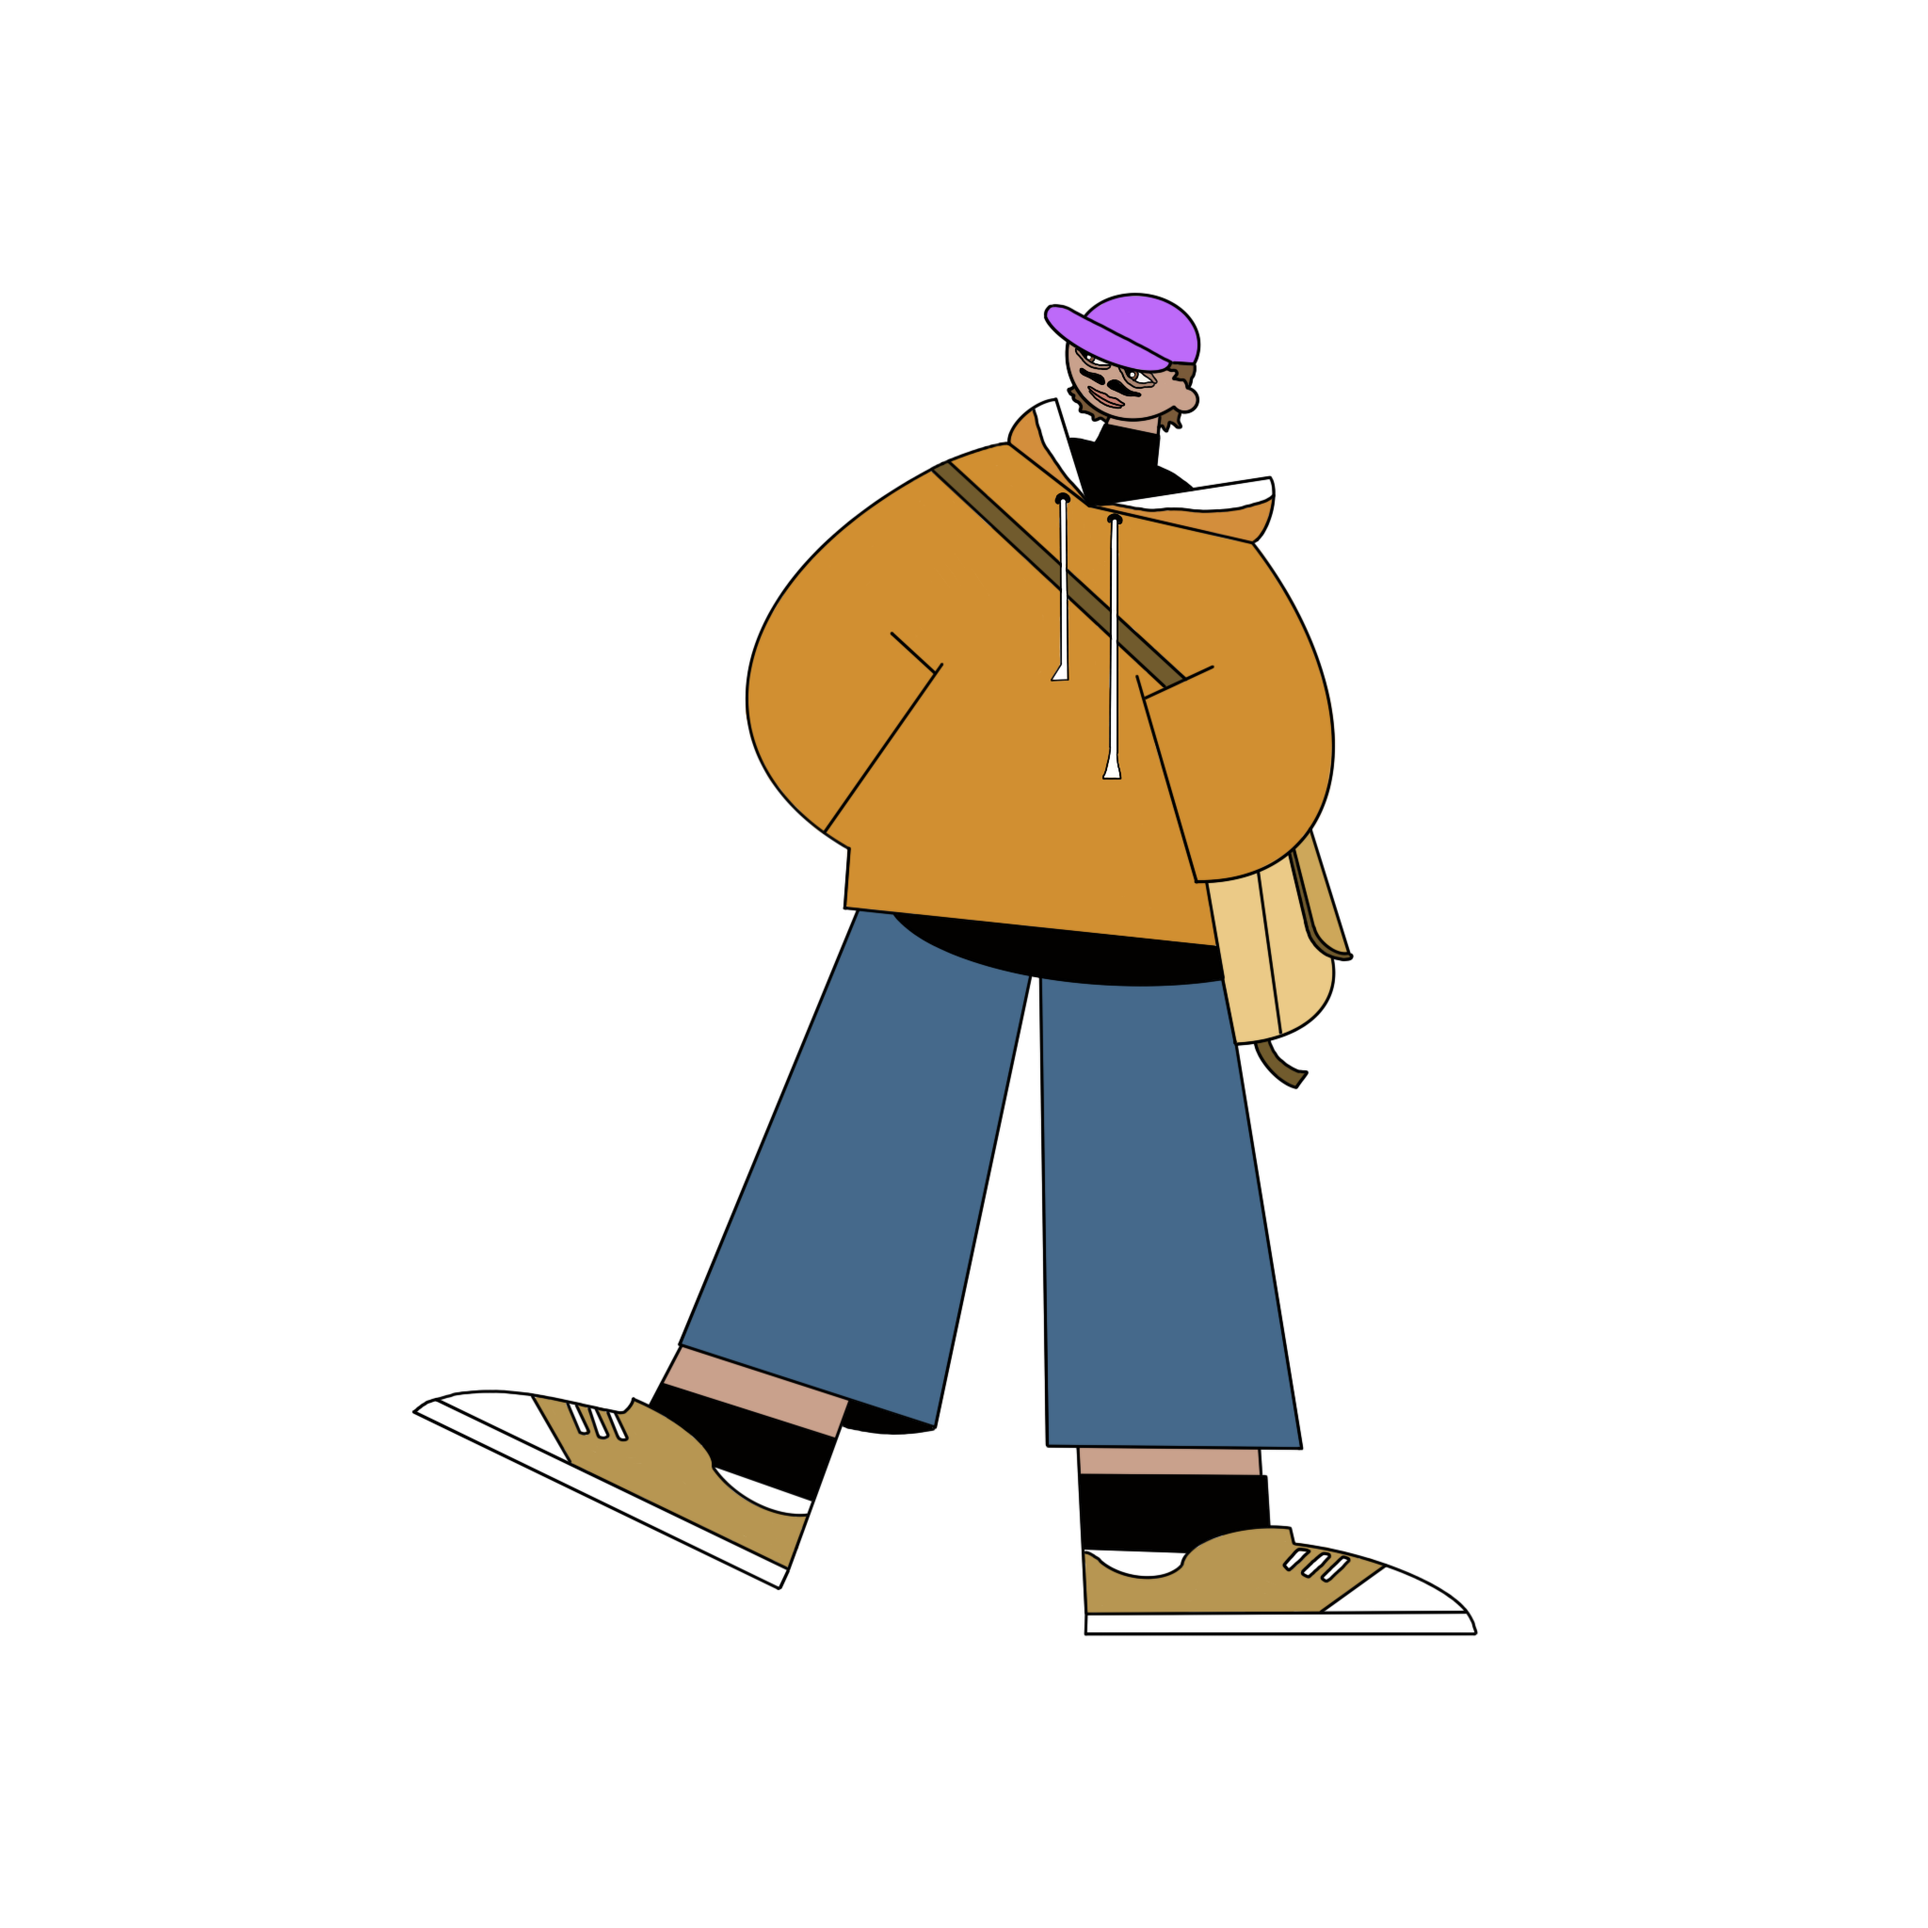
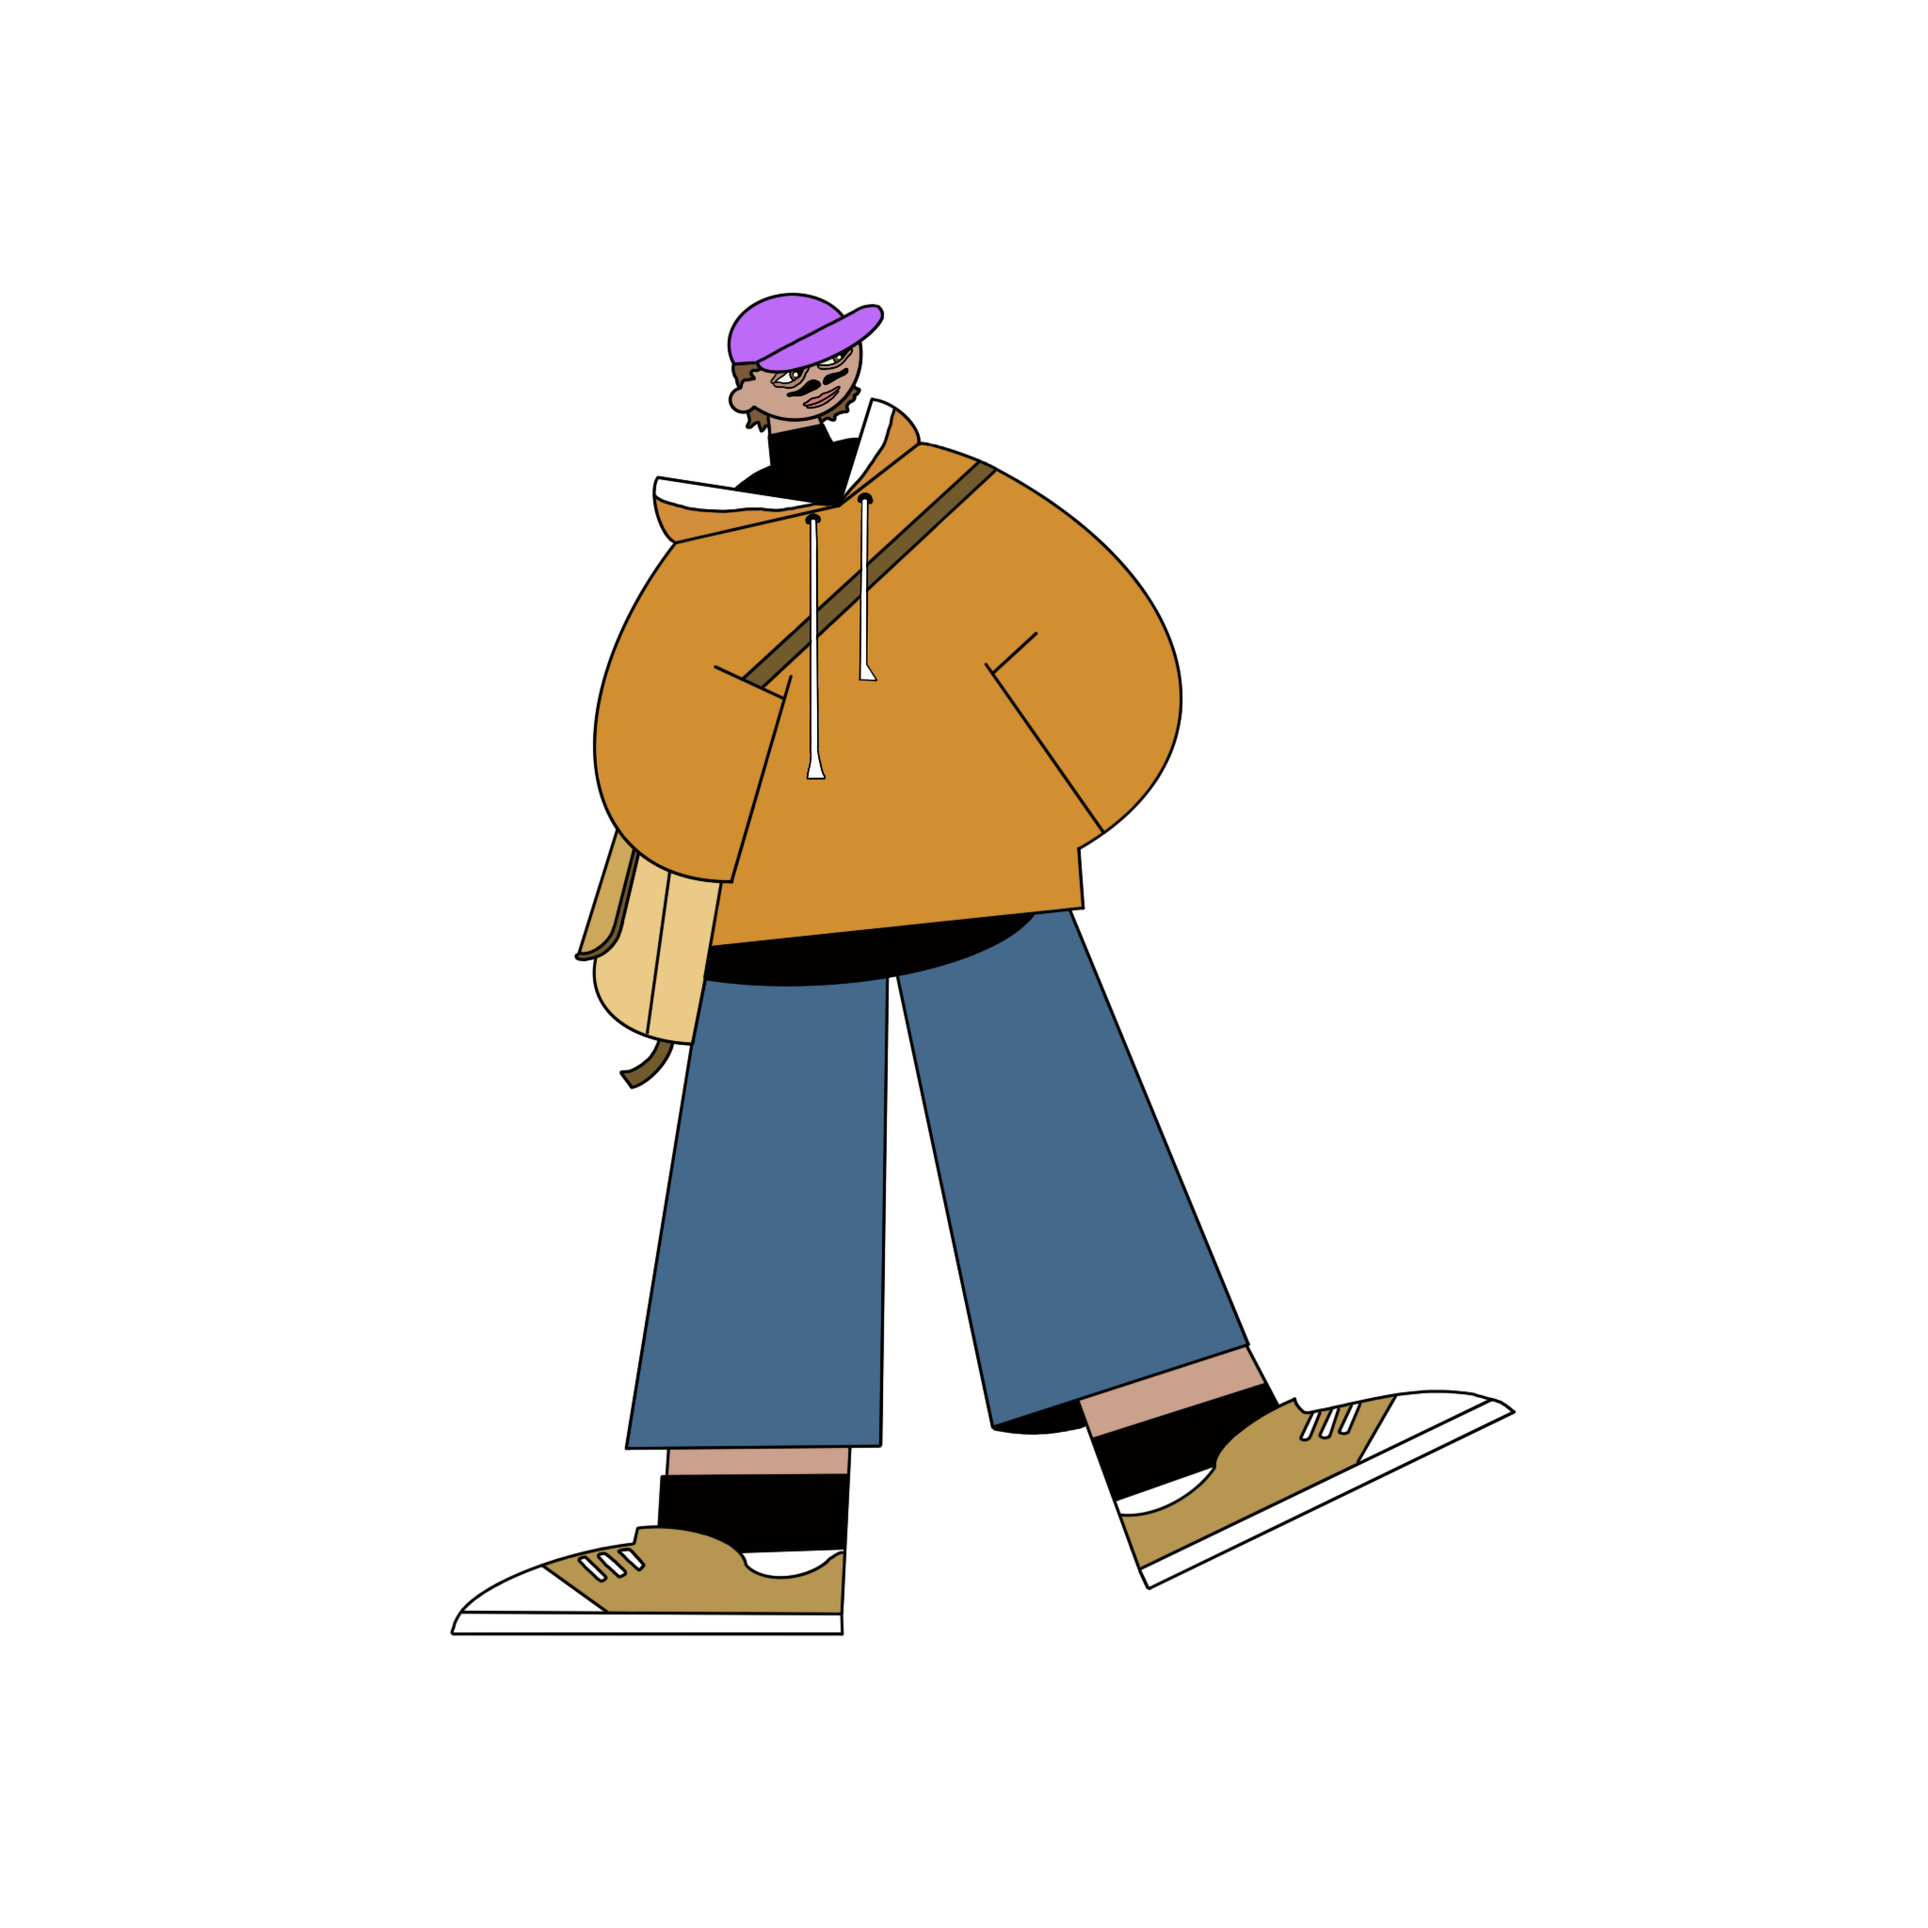
feat: added sunny version change functionality

Changed region(s): [[0.2188, 0.1562, 0.7812, 0.8438]]

diff --git a/src/components/ui/carousel.jsx b/src/components/ui/carousel.jsx
@@ -1,6 +1,6 @@
 "use client";
 import * as React from "react"
-import { ArrowLeftIcon, ArrowRightIcon } from "@radix-ui/react-icons"
+import { ChevronLeftIcon, ChevronRightIcon } from "@radix-ui/react-icons"
 import useEmblaCarousel from "embla-carousel-react";
 
 import { cn } from "@/lib/utils"
@@ -149,28 +149,33 @@ const CarouselItem = React.forwardRef(({ className, ...props }, ref) => {
 })
 CarouselItem.displayName = "CarouselItem"
 
-const CarouselPrevious = React.forwardRef(({ className, variant = "outline", size = "icon", ...props }, ref) => {
+const CarouselPrevious = React.forwardRef(({ className, variant = "ghost", size = "icon", ...props }, ref) => {
   const { orientation, scrollPrev, canScrollPrev } = useCarousel()
 
   return (
-    (<Button
+    <Button
       ref={ref}
       variant={variant}
       size={size}
-      className={cn("absolute  h-8 w-8 rounded-full", orientation === "horizontal"
-        ? "-left-12 top-1/2 -translate-y-1/2"
-        : "-top-12 left-1/2 -translate-x-1/2 rotate-90", className)}
+      className={cn(
+        "absolute  h-8 w-8 rounded-full hover:bg-gray-600",
+        orientation === "horizontal"
+          ? "left-12 top-1/2 -translate-y-1/2"
+          : "-top-12 left-1/2 -translate-x-1/2 rotate-90",
+        className
+      )}
       disabled={!canScrollPrev}
       onClick={scrollPrev}
-      {...props}>
-      <ArrowLeftIcon className="h-4 w-4" />
+      {...props}
+    >
+      <ChevronLeftIcon className="h-8 w-8" color="white" />
       <span className="sr-only">Previous slide</span>
-    </Button>)
+    </Button>
   );
 })
 CarouselPrevious.displayName = "CarouselPrevious"
 
-const CarouselNext = React.forwardRef(({ className, variant = "outline", size = "icon", ...props }, ref) => {
+const CarouselNext = React.forwardRef(({ className, variant = "ghost", size = "icon", ...props }, ref) => {
   const { orientation, scrollNext, canScrollNext } = useCarousel()
 
   return (
@@ -178,13 +183,13 @@ const CarouselNext = React.forwardRef(({ className, variant = "outline", size = 
       ref={ref}
       variant={variant}
       size={size}
-      className={cn("absolute h-8 w-8 rounded-full", orientation === "horizontal"
-        ? "-right-12 top-1/2 -translate-y-1/2"
+      className={cn("absolute h-8 w-8 rounded-full hover:bg-gray-600", orientation === "horizontal"
+        ? "right-12 top-1/2 -translate-y-1/2"
         : "-bottom-12 left-1/2 -translate-x-1/2 rotate-90", className)}
       disabled={!canScrollNext}
       onClick={scrollNext}
       {...props}>
-      <ArrowRightIcon className="h-4 w-4" />
+      <ChevronRightIcon className="h-8 w-8" color="white"/>
       <span className="sr-only">Next slide</span>
     </Button>)
   );

diff --git a/src/components/wardrobe.jsx b/src/components/wardrobe.jsx
@@ -1,9 +1,11 @@
 'use client';
 import { ChevronDown } from "lucide-react";
 import { StickyScroll } from "./sticky-scroll-reveal";
-import Sunny from '../../public/SunnyWelcome.PNG'
+import SunnySuit from '../../public/SunnySuit.png'
+import SunnyWelcome from '../../public/SunnyWelcome.PNG'
+import SunnyCargo from '../../public/SunnyCargo.png'
 import Image from "next/image";
-import {spotContents} from '../contents/SpotContents'
+import {spotContents} from '../contents/spotContents.js'
 import {
   Carousel,
   CarouselContent,
@@ -43,6 +45,18 @@ export default function Wardrobe() {
   const [stickyContent, setStickyContent] = useState(spotContents);
   const [api, setApi] = useState(null);
 
+  const sunnyPicture = (str) => {
+    switch (str) {
+      case 'Skills':
+        return SunnySuit;
+      case 'Hyve':
+        return SunnyWelcome;
+      case 'Spot':
+        return SunnyCargo;
+      default:
+        return SunnySuit;
+    }
+  }
    const scrollToTop = (ref) => {
      ref.scrollTo({
        top: 0,
@@ -74,26 +88,32 @@ export default function Wardrobe() {
         id="wardrobe"
         className="min-h-[100vh] flex justify-evenly items-center bg-gray-700"
       >
-        <Carousel className="w-[30%]" setApi={setApi} opts={{loop:true}}>
+        <Carousel className="w-[30%]" setApi={setApi} opts={{ loop: true }}>
           <CarouselContent>
             {sunnyVersion.map((version, index) => (
               <CarouselItem key={index}>
                 <div className="flex flex-col gap-3 justify-center">
                   <Image
-                    src={Sunny}
+                    src={sunnyPicture(version)}
                     width={500}
                     height={500}
                     alt="Sunny Wardrobe"
                   />
-                  <h1 className="text-white text-3xl flex justify-center">{version}</h1>
+                  <h1 className="text-white text-3xl flex justify-center">
+                    {version}
+                  </h1>
                 </div>
               </CarouselItem>
             ))}
           </CarouselContent>
-            <CarouselPrevious />
-            <CarouselNext />
+          <CarouselPrevious />
+          <CarouselNext />
         </Carousel>
-        <StickyScroll content={stickyContent} className="w-24" scrollToTop={scrollToTop} />
+        <StickyScroll
+          content={stickyContent}
+          className="w-24"
+          scrollToTop={scrollToTop}
+        />
         <a
           className="absolute bottom-[-200vh] bg-teal-500 w-full h-16 rounded-t-full flex flex-col items-center pt-2"
           href="#contact"

diff --git a/src/components/about.jsx b/src/components/about.jsx
@@ -1,4 +1,6 @@
 import { ChevronDown } from "lucide-react";
+import Image from "next/image";
+import SunnyCargo from '../../public/SunnyCargo.png'
 
 export default function About() {
   return (
@@ -13,6 +15,13 @@ export default function About() {
         >
           <ChevronDown color="white" size={50} className="opacity-10" />
         </a>
+        <Image
+          src={SunnyCargo}
+          alt="Sunny regular outfit"
+          className="absolute bottom-[-90vh] right-10 hover:bg-white"
+          width={600}
+          height={600}
+        />
       </div>
     </>
   );

diff --git a/src/components/welcome.jsx b/src/components/welcome.jsx
@@ -31,7 +31,7 @@ export default function Welcome() {
         <Image
           src={Sunny}
           alt="Sunny regular outfit"
-          className="absolute right-6 bottom-10 hover:bg-white"
+          className="absolute left-10 bottom-10 hover:bg-white"
           width={600}
           height={600}
         />
